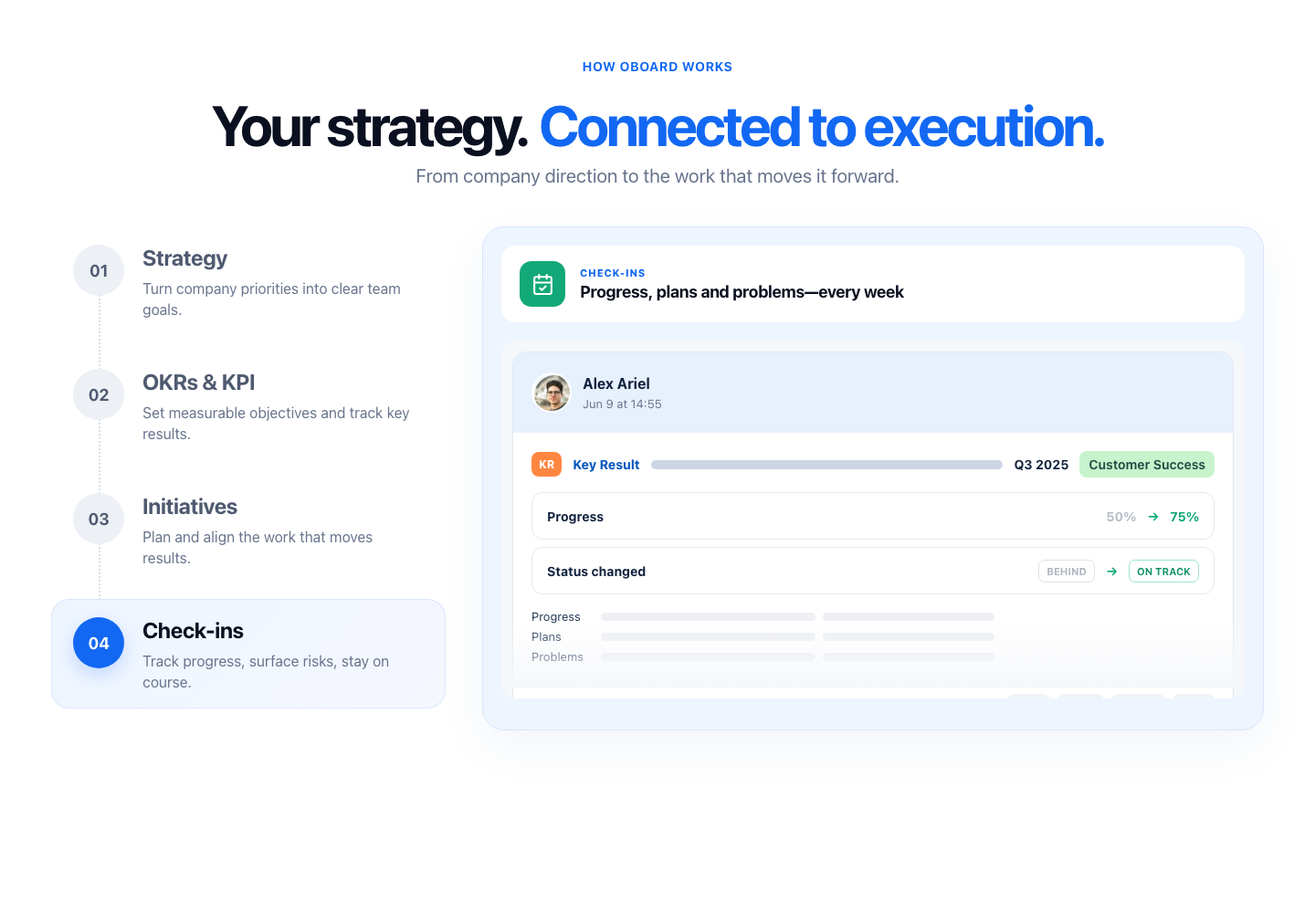
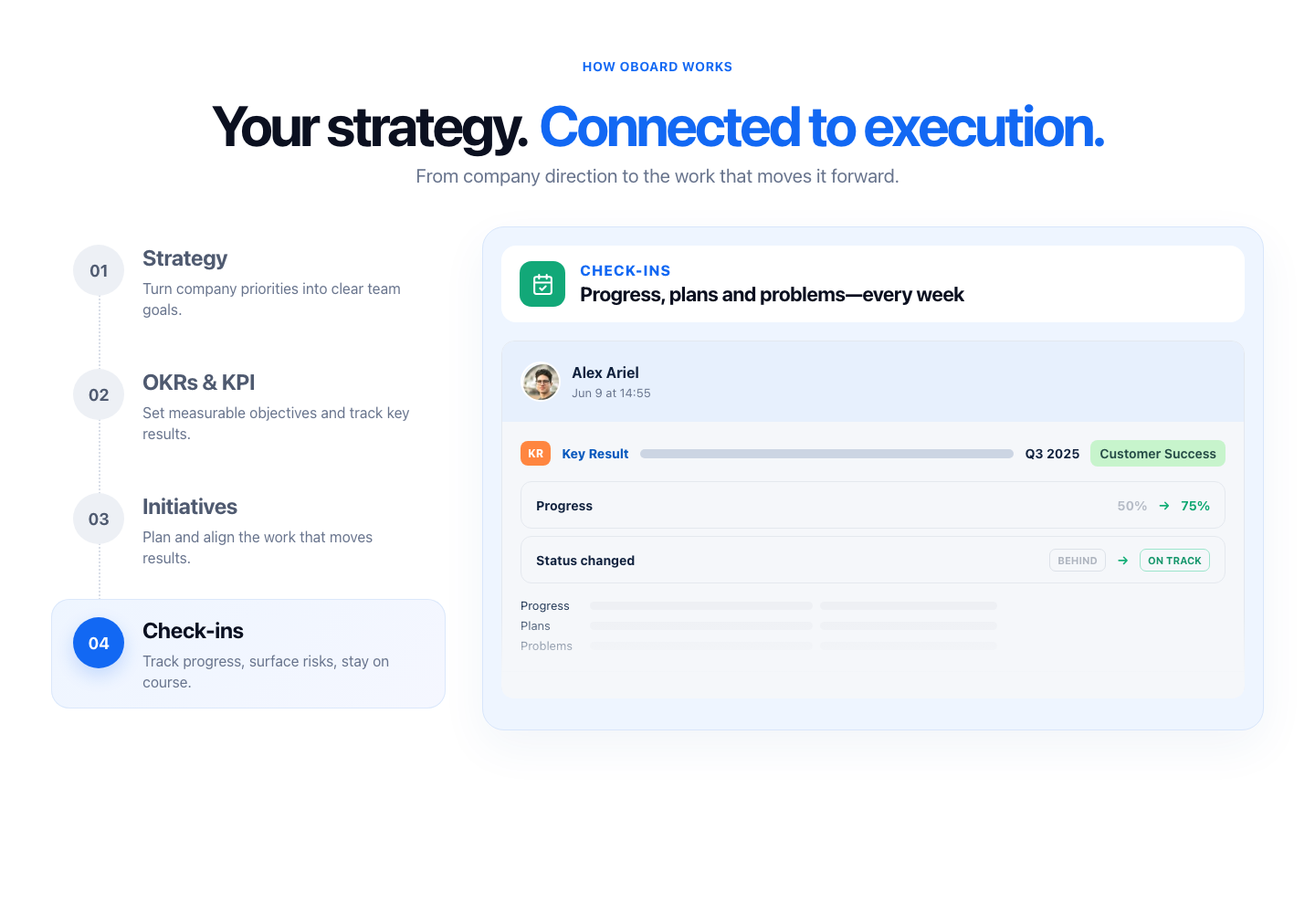
Add floating prototype navigation and latest OBoard updates

Changed region(s): [[0.375, 0.403, 0.9375, 0.744], [0.4375, 0.279, 0.75, 0.341]]

diff --git a/viktor-homepage-v2/platform-4-states.html b/viktor-homepage-v2/platform-4-states.html
@@ -31,19 +31,26 @@ h1{text-align:center;margin:24px 0 10px;font-size:clamp(42px,4.4vw,62px);line-he
 .state-icon.initiative{background:#a769f6}
 .state-icon.checkin{background:#12a878}
 .state-icon img,.state-icon.initiative img{filter:brightness(0) invert(1)}
-.initiative-composite{display:grid;grid-template-rows:132px minmax(0,1fr);gap:12px;overflow:hidden;border-radius:16px;background:#fff;padding:var(--section-gap)}
-.integration-flow{overflow:hidden;background:#fff}
-.integration-flow img{display:block;width:84%;height:auto;margin:0 auto}
-.objectives-frame{min-height:0;overflow:hidden;display:grid;place-items:start center;background:#fff}
-.objectives-card-shell{width:84%;height:100%;overflow:hidden;border:1px solid #dfe4ec;border-radius:16px;background:#fff}
+.initiative-composite{display:grid;grid-template-rows:auto minmax(0,1fr);gap:0;overflow:hidden;border-radius:16px;background:#fff;padding:var(--section-gap)}
+.integration-flow{position:relative;aspect-ratio:5.84/1;overflow:hidden;background:transparent}
+.integration-flow img{position:relative;z-index:1;display:block;width:84%;height:auto;margin:0 auto;mix-blend-mode:multiply}
+.flow-discs{position:absolute;z-index:0;inset:0;pointer-events:none}.flow-disc{position:absolute;top:20%;width:6.8%;aspect-ratio:1;border-radius:50%;background:#fff;transform:translateX(-50%)}.flow-disc:nth-child(1){left:40.6%}.flow-disc:nth-child(2){left:50%}.flow-disc:nth-child(3){left:59.4%}
+.flow-cleaner{position:absolute;z-index:2;left:0;right:0;bottom:0;height:20%;background:#eef5ff;pointer-events:none}
+.flow-tip{position:absolute;top:-2px;bottom:3px;width:14px;transform:translateX(-50%)}
+.flow-tip:before{content:"";position:absolute;left:6px;top:0;bottom:6px;border-left:2px solid #b8d3ff}
+.flow-tip:after{content:"";position:absolute;left:2px;bottom:3px;width:8px;height:8px;border-right:2px solid #b8d3ff;border-bottom:2px solid #b8d3ff;transform:rotate(45deg)}
+.flow-tip:nth-child(1){left:46.4%}.flow-tip:nth-child(2){left:50%}.flow-tip:nth-child(3){left:53.6%}
+.objectives-frame{position:relative;min-height:0;overflow:hidden;display:grid;place-items:start center;background:transparent}
+.objectives-frame:after{content:"";position:absolute;z-index:3;left:8%;right:8%;bottom:0;height:64px;pointer-events:none;background:linear-gradient(180deg,rgba(255,255,255,0),rgba(255,255,255,.82) 58%,#fff 88%)}
+.objectives-card-shell{width:84%;height:100%;overflow:hidden;border:0;border-radius:0;background:transparent}
 .objectives-frame .objectives-window{display:block;width:107.8%;max-width:none;height:auto;margin:-3.2% 0 0 -3.9%}
-.checkin-window{position:relative;height:390px;overflow:hidden;border-radius:16px;background:#f5f7fa;padding:12px}
-.checkin-window:after{content:"";position:absolute;z-index:2;left:12px;right:12px;bottom:12px;height:96px;pointer-events:none;background:linear-gradient(180deg,rgba(245,247,250,0) 0%,rgba(245,247,250,.76) 56%,#f5f7fa 82%)}
-.checkin-card{min-height:480px;overflow:hidden;border:1px solid #e3e8ef;border-radius:14px;background:#fff;color:#10213d}
+.checkin-window{position:relative;height:390px;overflow:hidden;border-radius:14px;background:transparent;padding:0}
+.checkin-window:after{content:"";position:absolute;z-index:2;left:0;right:0;bottom:0;height:96px;pointer-events:none;background:linear-gradient(180deg,rgba(245,247,250,0) 0%,rgba(245,247,250,.76) 56%,#f5f7fa 82%)}
+.checkin-card{min-height:480px;overflow:hidden;border:1px solid #e3e8ef;border-radius:14px;background:#f5f7fa;color:#10213d}
 .checkin-author{height:88px;display:flex;align-items:center;gap:12px;padding:16px 20px;background:#e7f0fd}
 .checkin-avatar{width:44px;height:44px;flex:none;border:2px solid #fff;border-radius:50%;background-image:url('platform-shots/checkin.webp');background-repeat:no-repeat;background-size:933px 561px;background-position:-54px -33px}
 .checkin-author strong{display:block;font-size:16px;line-height:1.2}.checkin-author time{display:block;margin-top:4px;color:#68748d;font-size:13px}
-.checkin-body{padding:20px;display:grid;gap:16px}
+.checkin-body{padding:20px;display:grid;gap:16px;background:#f5f7fa}
 .checkin-meta{display:grid;grid-template-columns:auto auto minmax(80px,1fr) auto auto;gap:12px;align-items:center;font-size:14px}
 .kr-chip{padding:6px 8px;border-radius:8px;background:#ff8640;color:#fff;font-size:12px;font-weight:800}.kr-label{color:#0758bd;font-weight:750}.checkin-placeholder{height:10px;border-radius:99px;background:#ccd5e3}.checkin-quarter{font-weight:700}.checkin-team{padding:6px 10px;border-radius:8px;background:#c7f4cc;color:#254b46;font-weight:650;white-space:nowrap}
 .change-stack{display:grid;gap:8px}.change-row{min-height:52px;border:1px solid #e4e8ee;border-radius:12px;padding:12px 16px;display:flex;align-items:center;justify-content:space-between;font-size:14px;font-weight:700}.change-value{display:flex;gap:12px;align-items:center}.old{color:#b5bbc6}.arrow{color:#13ae76}.new{color:#0aa66f}.status-old,.status-new{padding:5px 8px;border:1px solid #dde2e9;border-radius:7px;font-size:11px}.status-old{color:#aeb4bf}.status-new{border-color:#9ce5cc;color:#15966b}
@@ -57,7 +64,9 @@ h1{text-align:center;margin:24px 0 10px;font-size:clamp(42px,4.4vw,62px);line-he
 .strategy-panel{display:grid;place-items:center;min-height:0;overflow:hidden;border-radius:16px;background:#fff}
 .strategy-panel .state-visual{width:100%;border-radius:0}
 .scene[data-scene="okr"] .figma-stack>img{border-radius:0;clip-path:inset(1px)}
-.initiative-composite{background:#fff}
+.okr-card{overflow:visible;border:0;border-radius:0;background:transparent}
+.scene[data-scene="okr"] .okr-card>img{display:block;width:100%;height:auto;border-radius:0}
+.initiative-composite{background:transparent}
 .stage:has(.scene[data-scene="initiatives"].active):after{display:none}
 .stage{--section-gap:18px;--head-height:82px;--head-pad-x:18px;--head-pad-y:16px;--head-icon-gap:16px;padding:var(--section-gap)}
 .state-shell,.figma-stack,.scene[data-scene="checkins"] .state-shell{gap:var(--section-gap)}
@@ -71,12 +80,14 @@ h1{margin:24px 0 12px}
 .rail{grid-template-rows:repeat(4,120px);gap:16px}
 .rail:before{left:52px;top:48px;bottom:72px}
 .tab{height:120px;border-radius:20px;padding:20px 24px;gap:20px}
-.state-copy strong{margin-top:4px}
+.state-copy small{font-size:16px;line-height:1.2;letter-spacing:.06em}
+.state-copy strong{margin-top:4px;font-size:22px}
 .caption{margin:20px 8px 0}
 .stage{height:552px;--section-gap:20px;--head-height:84px;--head-pad-x:20px;--head-pad-y:16px;--head-icon-gap:16px}
 .scene[data-scene="strategy"] .state-shell{grid-template-rows:var(--head-height) minmax(0,1fr)}
 .checkin-window{height:392px}
 @media(max-width:980px){.page{padding:40px 20px}.story{grid-template-columns:280px minmax(0,1fr);gap:24px}.rail{grid-template-rows:repeat(4,100px);gap:16px}.rail:before{left:36px;top:36px;bottom:64px}.tab{height:100px;grid-template-columns:44px 1fr;padding:16px;gap:12px}.num{width:44px;height:44px}}
+.page-switcher{position:fixed;z-index:20;right:18px;top:50%;display:grid;gap:6px;transform:translateY(-50%);padding:6px;border:1px solid #dbe7f8;border-radius:12px;background:rgba(255,255,255,.84);box-shadow:0 8px 24px rgba(20,51,97,.10);backdrop-filter:blur(8px)}.page-switcher a{display:grid;place-items:center;width:26px;height:26px;border-radius:7px;color:#62708a;font-size:12px;font-weight:800;text-decoration:none}.page-switcher a:hover{background:#eaf2ff;color:#1268f3}.page-switcher a[aria-current="page"]{background:#1268f3;color:#fff}
 </style>
 </head>
 <body><main class="page">
@@ -101,14 +112,14 @@ h1{margin:24px 0 12px}
       </div><p class="caption"><b>Every team can trace its work back to the strategy it serves.</b></p>
     </div>
     <div class="scene shot-scene" data-scene="okr">
-      <div class="figma-state figma-stack"><div class="state-head"><span class="state-icon okr"><img src="figma-product/icons/okr.svg" alt=""></span><span class="state-copy"><small>OKRs &amp; KPI</small><strong>Outcomes and business metrics on one board</strong></span></div><img src="figma-product/objectives-open@2x.png" alt="Open Objectives table from Oboard Design System"><img src="figma-product/kpi-period-open@2x.png" alt="Open KPI period table from Oboard Design System"></div>
+      <div class="figma-state figma-stack"><div class="state-head"><span class="state-icon okr"><img src="figma-product/icons/okr.svg" alt=""></span><span class="state-copy"><small>OKRs &amp; KPI</small><strong>Outcomes and business metrics on one board</strong></span></div><div class="okr-card"><img src="figma-product/objectives-open@2x.png" alt="Open Objectives table from Oboard Design System"></div><div class="okr-card"><img src="figma-product/kpi-period-open@2x.png" alt="Open KPI period table from Oboard Design System"></div></div>
       <img class="product-shot" src="platform-shots/okr.webp" alt="Oboard OKR and KPI view from the supplied prototype">
       <div class="hero-card"><div class="ico">◎</div><div><div class="kicker">OKRs &amp; KPI</div><h2>Outcomes and business metrics on one board</h2></div></div><div class="connect"></div>
       <div class="grid2"><div class="card"><div class="section-title"><span>Q3 Objectives</span><span>55% grade</span></div><div class="row"><span>O1</span><span>Improve checkout reliability</span><span class="progress"><i style="width:55%"></i></span><span class="badge risk">Behind</span></div><div class="row"><span>KR1</span><span>Raise availability to 99.94%</span><span class="progress"><i style="width:72%"></i></span><span class="badge good">On track</span></div><div class="row"><span>KR2</span><span>Reduce incident MTTR by 75%</span><span class="progress"><i style="width:61%"></i></span><span class="badge good">On track</span></div></div><div class="card metric"><div class="kicker">Product KPI</div><div class="big">12,500</div><small>Monthly active users</small><div class="progress" style="margin-top:26px"><i style="width:68%"></i></div><small>+8.4% this month</small></div></div>
       <p class="caption">A <b>55% objective grade and a 12,500 MAU reading</b> get read together—not in separate tools.</p>
     </div>
     <div class="scene shot-scene" data-scene="initiatives">
-      <div class="figma-state state-shell"><div class="state-head"><span class="state-icon initiative"><img src="figma-product/icons/initiative.svg" alt=""></span><span class="state-copy"><small>Initiatives</small><strong>The work that moves the number</strong></span></div><div class="initiative-composite"><div class="integration-flow"><img src="platform-shots/initiative.webp" alt="Jira, API and Power BI feeding Oboard"></div><div class="objectives-frame"><div class="objectives-card-shell"><img class="objectives-window" src="figma-product/objectives-table@2x.png" alt="Figma Objectives table with a gray header and linked initiatives"></div></div></div></div>
+      <div class="figma-state state-shell"><div class="state-head"><span class="state-icon initiative"><img src="figma-product/icons/initiative.svg" alt=""></span><span class="state-copy"><small>Initiatives</small><strong>The work that moves the number</strong></span></div><div class="initiative-composite"><div class="integration-flow"><span class="flow-discs" aria-hidden="true"><i class="flow-disc"></i><i class="flow-disc"></i><i class="flow-disc"></i></span><img src="platform-shots/initiative.webp" alt="Jira, API and Power BI feeding Oboard"><span class="flow-cleaner" aria-hidden="true"><i class="flow-tip"></i><i class="flow-tip"></i><i class="flow-tip"></i></span></div><div class="objectives-frame"><div class="objectives-card-shell"><img class="objectives-window" src="figma-product/objectives-table@2x.png" alt="Figma Objectives table with a gray header and linked initiatives"></div></div></div></div>
       <img class="product-shot" src="platform-shots/initiative.webp" alt="Oboard initiatives view from the supplied prototype">
       <div class="hero-card"><div class="ico">⚡</div><div><div class="kicker">Initiatives</div><h2>Connect delivery work to the result it moves</h2></div></div><div class="connect"></div>
       <div class="card"><div class="section-title"><span>KR · Reduce incident MTTR by 75%</span><span>61%</span></div><div class="source-row"><span class="source">Jira</span><span class="source">Azure DevOps</span><span class="source">Power BI</span><span class="source">API</span></div><div class="row"><span>⚡</span><span>Standardize alerting across services</span><span class="weight">40% weight</span><span class="badge good">80%</span></div><div class="row"><span>⚡</span><span>Automate incident triage</span><span class="weight">35% weight</span><span class="badge good">64%</span></div><div class="row"><span>⚡</span><span>Run reliability game days</span><span class="weight">25% weight</span><span class="badge risk">20%</span></div></div>
@@ -124,4 +135,5 @@ h1{margin:24px 0 12px}
   </div>
 </section></main>
 <script>const tabs=[...document.querySelectorAll('.tab')],scenes=[...document.querySelectorAll('.scene')];const initial=new URLSearchParams(location.search).get('state');if(initial){tabs.forEach(x=>x.setAttribute('aria-selected',String(x.dataset.state===initial)));scenes.forEach(s=>s.classList.toggle('active',s.dataset.scene===initial));}tabs.forEach(t=>{t.addEventListener('mousedown',e=>e.preventDefault());t.addEventListener('click',()=>{const y=scrollY;tabs.forEach(x=>x.setAttribute('aria-selected',String(x===t)));scenes.forEach(s=>s.classList.toggle('active',s.dataset.scene===t.dataset.state));requestAnimationFrame(()=>scrollTo(0,y));});});</script>
+<nav class="page-switcher" aria-label="OBoard prototypes"><a href="platform-4-states.html" aria-current="page" aria-label="Platform">1</a><a href="agents-timeline.html" aria-label="AI agents timeline">2</a><a href="strategic-context.html" aria-label="Strategic context">3</a></nav>
 </body></html>

diff --git a/viktor-homepage-v2/strategic-context.html b/viktor-homepage-v2/strategic-context.html
@@ -2,55 +2,43 @@
 <html lang="en">
 <head>
 <meta charset="utf-8">
-<meta name="viewport" content="width=device-width, initial-scale=1">
+<meta name="viewport" content="width=device-width,initial-scale=1">
 <title>OBoard — Strategic context</title>
 <style>
-  :root{--ink:#090e20;--text:#142246;--muted:#65738f;--blue:#1268f3;--line:#dbe6f6;--soft:#eef5ff;--soft-2:#f7faff}
-  *{box-sizing:border-box} body{margin:0;background:#fff;color:var(--ink);font-family:Inter,-apple-system,BlinkMacSystemFont,"Segoe UI",sans-serif;-webkit-font-smoothing:antialiased}
-  .page{width:min(1440px,100%);margin:0 auto;padding:64px 48px 72px}.eyebrow{margin:0 0 22px;text-align:center;color:var(--blue);font-size:13px;font-weight:800;letter-spacing:.15em;text-transform:uppercase}.title{max-width:1080px;margin:0 auto 12px;text-align:center;font-size:clamp(46px,5.1vw,70px);letter-spacing:-.055em;line-height:1.01}.title span{color:var(--blue)}.lede{margin:0 auto 38px;text-align:center;color:var(--muted);font-size:22px;line-height:1.35}
-  .comparison{border:1px solid #cfe0fa;border-radius:22px;background:linear-gradient(135deg,#f7fbff,#edf5ff);padding:28px;box-shadow:0 18px 48px rgba(46,97,171,.07)}
-  .prompt{height:72px;display:flex;align-items:center;gap:16px;border:1px solid #d6e5fa;border-radius:15px;background:#fff;padding:0 18px;font-size:20px;font-weight:680;letter-spacing:-.02em}.spark{display:grid;place-items:center;width:42px;height:42px;border-radius:11px;background:#e8f1ff;color:var(--blue);font-size:28px;line-height:1}
-  .context{display:grid;grid-template-columns:repeat(3,1fr);margin:16px 0;background:#fff;border-radius:14px;min-height:64px;align-items:center}.signal{min-width:0;display:flex;justify-content:center;align-items:center;gap:11px;padding:0 22px;color:#233d70;font-size:17px;font-weight:620;text-align:center}.signal+.signal{border-left:1px solid #dce6f5}.signal b{color:var(--blue);font-size:24px;line-height:1}.signal span{white-space:nowrap}
-  .lists{display:grid;grid-template-columns:1fr 1fr;overflow:hidden;border-radius:16px;background:#fff}.list{padding:22px 20px 18px;min-width:0}.list+ .list{border-left:1px solid #d6e4f7}.list h2{margin:0;color:#657596;font-size:14px;font-weight:800;letter-spacing:.075em;text-transform:uppercase}.list.with h2{color:var(--blue)}.rule{margin:5px 0 16px;color:var(--muted);font-size:16px}.head,.row{display:grid;grid-template-columns:54px minmax(0,1fr) 126px;align-items:center;column-gap:10px}.head{min-height:31px;color:#6b7b99;font-size:13px;font-weight:700}.head span:last-child{text-align:right}.row{min-height:70px;border-top:1px solid #e3ebf7;font-size:17px}.row.key{background:#f1f7ff;border-radius:11px;border-top:0;margin:0 -6px;padding:0 6px}.rank{font-size:17px;font-weight:800;color:#344a77}.row.key .rank{color:var(--blue)}.item{min-width:0;font-weight:650;letter-spacing:-.02em;white-space:nowrap;overflow:hidden;text-overflow:ellipsis}.meta{color:#697b9e;font-size:14px;white-space:nowrap;text-align:right}.moved{display:inline-block;margin-left:8px;border-radius:999px;background:#deebff;padding:3px 7px;color:var(--blue);font-size:12px;font-weight:800;letter-spacing:0;vertical-align:middle}.quiet{color:#6d7c99}.footer{margin:26px 0 0;text-align:center;color:#61749b;font-size:17px}.footer b{color:#193c83}
-  @media(max-width:800px){.page{padding:42px 18px}.title{font-size:42px}.lede{font-size:18px}.comparison{padding:16px}.context{grid-template-columns:1fr}.signal{justify-content:flex-start;min-height:52px;border-left:0!important}.signal+.signal{border-top:1px solid #dce6f5}.lists{grid-template-columns:1fr}.list+.list{border-top:1px solid #d6e4f7;border-left:0}.signal span{white-space:normal}.meta{font-size:12px}.head,.row{grid-template-columns:42px minmax(0,1fr) 94px}}
+:root{--ink:#09112a;--muted:#68789a;--blue:#1268f3;--line:#cfe0f8;--soft:#f6faff;--u:8px}
+*{box-sizing:border-box}body{margin:0;background:#fff;color:var(--ink);font-family:Inter,-apple-system,BlinkMacSystemFont,"Segoe UI",sans-serif;-webkit-font-smoothing:antialiased}
+.page{width:min(1392px,100%);margin:auto;padding:64px 56px 72px}.title{margin:0;text-align:center;font-size:clamp(48px,5vw,68px);line-height:1.02;letter-spacing:-.055em}.title span{color:var(--blue)}.lede{margin:16px 0 40px;text-align:center;color:var(--muted);font-size:23px;line-height:1.35;letter-spacing:-.02em}
+.prompt{height:80px;display:flex;align-items:center;gap:16px;padding:16px 24px;border:1px solid var(--line);border-radius:16px;font-size:22px;font-weight:650;letter-spacing:-.025em}.spark{display:grid;place-items:center;width:48px;height:48px;flex:none;border-radius:12px;background:#e8f2ff;color:var(--blue);font-size:30px}
+.stage{position:relative;margin-top:32px;min-height:488px;padding:32px;border:1px solid var(--line);border-radius:24px;background:#fff;overflow:hidden}.labels{position:relative;z-index:2;display:grid;grid-template-columns:46% 1fr;margin:0 0 24px;color:var(--muted);font-size:14px;line-height:1.2;font-weight:800;letter-spacing:.12em;text-transform:uppercase}.labels span:last-child{padding-left:24px}
+.layout{position:relative;z-index:2;display:grid;grid-template-columns:34% 18% 48%;align-items:start}.signals{display:grid;gap:16px}.signal{min-height:88px;display:flex;align-items:center;gap:16px;padding:16px;border-radius:16px;background:var(--soft);font-size:20px;font-weight:620;line-height:1.25;letter-spacing:-.025em}.iconbox{width:48px;height:48px;display:grid;place-items:center;flex:none;border-radius:12px;background:#e7f1ff;color:var(--blue)}.iconbox img,.iconbox svg{width:26px;height:26px}.iconbox img{filter:invert(33%) sepia(88%) saturate(2896%) hue-rotate(208deg) brightness(98%) contrast(94%)}
+.flow{position:absolute;z-index:1;left:calc(34% - 5px);top:80px;width:20%;height:280px;pointer-events:none;overflow:visible}.flow path{fill:none;stroke:#b7d4ff;stroke-width:1.65;stroke-linecap:round}.flow circle{fill:var(--blue)}
+.decision{grid-column:3;min-width:0}.choice{min-height:168px;display:flex;align-items:center;gap:24px;padding:16px 24px 16px 16px;border-radius:16px;background:linear-gradient(110deg,#f0f7ff,#f8fbff)}.rank{width:112px;height:112px;display:grid;place-items:center;flex:none;border-radius:12px;background:var(--blue);color:#fff;font-size:44px;font-weight:800;letter-spacing:-.055em;box-shadow:0 8px 20px rgba(18,104,243,.18)}.choice h2{margin:0 0 8px;font-size:clamp(26px,2.4vw,34px);line-height:1.05;letter-spacing:-.045em}.choice p{margin:0;max-width:540px;color:#6d7fa3;font-size:20px;line-height:1.35}.provenance{margin-top:32px}.provenance h3{margin:0 0 12px;color:var(--muted);font-size:14px;line-height:1.2;font-weight:800;letter-spacing:.12em;text-transform:uppercase}.provenance p{margin:4px 0;color:var(--muted);font-size:20px;line-height:1.35;letter-spacing:-.02em}.provenance b{color:var(--blue)}.principle{margin:40px 0 0;text-align:center;color:var(--muted);font-size:19px}.principle b{color:#294783}
+@media(max-width:850px){.page{padding:40px 20px}.lede{font-size:18px}.stage{padding:24px 16px}.labels{grid-template-columns:1fr}.labels span:last-child{display:none}.layout{grid-template-columns:1fr}.flow{display:none}.decision{grid-column:auto;margin-top:24px}.signal{min-height:72px;font-size:16px}.choice{gap:16px}.rank{width:80px;height:80px;font-size:32px}.choice h2{font-size:23px}.choice p,.provenance p{font-size:16px}}
+.page-switcher{position:fixed;z-index:20;right:18px;top:50%;display:grid;gap:6px;transform:translateY(-50%);padding:6px;border:1px solid #dbe7f8;border-radius:12px;background:rgba(255,255,255,.84);box-shadow:0 8px 24px rgba(20,51,97,.10);backdrop-filter:blur(8px)}.page-switcher a{display:grid;place-items:center;width:26px;height:26px;border-radius:7px;color:#62708a;font-size:12px;font-weight:800;text-decoration:none}.page-switcher a:hover{background:#eaf2ff;color:#1268f3}.page-switcher a[aria-current="page"]{background:#1268f3;color:#fff}
 </style>
 </head>
 <body>
-  <main class="page">
-    <p class="eyebrow">Strategic context layer</p>
-    <h1 class="title">The same backlog. <span>A better answer.</span></h1>
-    <p class="lede">One prompt. The priority changes when strategy is clear.</p>
-
-    <section class="comparison" aria-label="How strategic context changes backlog priority">
-      <div class="prompt"><span class="spark" aria-hidden="true">✦</span>Prioritize the backlog for next quarter.</div>
-      <div class="context" aria-label="Strategic context the AI uses">
-        <div class="signal"><b aria-hidden="true">◎</b><span>Enterprise expansion</span></div>
-        <div class="signal"><b aria-hidden="true">⚑</b><span>KR: 500+ seat customers</span></div>
-        <div class="signal"><b aria-hidden="true">▥</b><span>4 of 6 trials blocked by security review</span></div>
+<main class="page">
+  <h1 class="title">A decision you can <span>explain.</span></h1>
+  <p class="lede">Strategic context changes the priority — and shows why.</p>
+  <div class="prompt"><span class="spark" aria-hidden="true">✦</span><span>Prioritize next quarter’s backlog.</span></div>
+  <section class="stage" aria-label="Strategic context informed priority decision">
+    <div class="labels"><span>What the agent saw</span><span>The decision</span></div>
+    <svg class="flow" viewBox="0 0 300 280" preserveAspectRatio="none" aria-hidden="true"><path d="M0 42 C104 42,116 140,269 140"/><path d="M0 140 C118 140,137 140,269 140"/><path d="M0 238 C104 238,116 140,269 140"/><circle cx="273" cy="140" r="5"/></svg>
+    <div class="layout">
+      <div class="signals">
+        <div class="signal"><span class="iconbox"><img src="../../published-prototype/objectives-assets/3320-25894-imgTarget.svg" alt=""></span><span>Enterprise expansion</span></div>
+        <div class="signal"><span class="iconbox"><img src="figma-product/icons/strategy.svg" alt=""></span><span>500+ seat customer goal</span></div>
+        <div class="signal"><span class="iconbox"><svg viewBox="0 0 24 24" fill="none" aria-hidden="true"><path d="M12 3.5c-2.7 0-4.7.02-6.1.14-1.35.1-1.93.32-2.29.58-.3.22-.55.58-.69 1.48C2.77 6.64 2.8 7.91 2.8 9.77c0 4.08 2.29 6.77 4.74 8.45A16 16 0 0 0 12 20.5a16 16 0 0 0 4.46-2.28c2.45-1.68 4.74-4.37 4.74-8.45 0-1.86.03-3.13-.12-4.07-.14-.9-.39-1.26-.69-1.48-.36-.26-.94-.48-2.29-.58-1.4-.12-3.4-.14-6.1-.14Z" stroke="currentColor" stroke-width="2" stroke-linejoin="round"/><path d="m8.4 11.8 2.15 2.1 4.35-4.35" stroke="currentColor" stroke-width="2" stroke-linecap="round" stroke-linejoin="round"/></svg></span><span>4 of 6 trials blocked by security review</span></div>
       </div>
-
-      <div class="lists">
-        <section class="list" aria-labelledby="without">
-          <h2 id="without">Without AI context</h2>
-          <p class="rule">Votes + delivery effort</p>
-          <div class="head"><span>#</span><span>Initiative</span><span>Votes · effort</span></div>
-          <div class="row key"><span class="rank">#1</span><span class="item">Bulk CSV export</span><span class="meta">22 · 2 days</span></div>
-          <div class="row"><span class="rank">#2</span><span class="item">Advanced admin controls</span><span class="meta">18 · 5 days</span></div>
-          <div class="row"><span class="rank">#3</span><span class="item">API rate limits</span><span class="meta">16 · 3 days</span></div>
-          <div class="row"><span class="rank">#9</span><span class="item">SCIM provisioning + audit logs</span><span class="meta">9 · 7 days</span></div>
-        </section>
-        <section class="list with" aria-labelledby="with">
-          <h2 id="with">With AI strategic context</h2>
-          <p class="rule">Strategy + customer signal</p>
-          <div class="head"><span>#</span><span>Initiative</span><span>Votes · effort</span></div>
-          <div class="row key"><span class="rank">#1</span><span class="item">SCIM provisioning + audit logs <i class="moved">from #9</i></span><span class="meta">9 · 7 days</span></div>
-          <div class="row"><span class="rank">#2</span><span class="item">SSO (SAML)</span><span class="meta">14 · 6 days</span></div>
-          <div class="row"><span class="rank">#3</span><span class="item">Advanced admin controls</span><span class="meta">12 · 5 days</span></div>
-          <div class="row"><span class="rank quiet">#9</span><span class="item quiet">Bulk CSV export <i class="moved">from #1</i></span><span class="meta">22 · 2 days</span></div>
-        </section>
+      <div class="decision">
+        <div class="choice"><div class="rank">#1</div><div><h2>SCIM provisioning + audit logs</h2><p>Unblocks the security review holding back enterprise trials.</p></div></div>
+        <div class="provenance"><h3>Provenance</h3><p>Before context: <b>#9</b></p><p>Without context, Bulk CSV export was <b>#1</b>.</p></div>
       </div>
-    </section>
-    <p class="footer"><b>Enterprise readiness</b> over feature breadth.</p>
-  </main>
+    </div>
+  </section>
+  <p class="principle"><b>Enterprise readiness</b> over feature breadth.</p>
+ </main>
+<nav class="page-switcher" aria-label="OBoard prototypes"><a href="platform-4-states.html" aria-label="Platform">1</a><a href="agents-timeline.html" aria-label="AI agents timeline">2</a><a href="strategic-context.html" aria-current="page" aria-label="Strategic context">3</a></nav>
 </body>
 </html>

diff --git a/viktor-homepage-v2/agents-timeline.html b/viktor-homepage-v2/agents-timeline.html
@@ -17,8 +17,8 @@
 @media(max-width:1100px){.page{padding:38px 20px}.agents{grid-template-columns:repeat(3,1fr)}.agent{height:170px}.phase-track{display:none}.connector{display:none}.work{height:auto;margin-top:22px;padding:26px}.work-head{height:auto;min-height:94px}.work-grid{height:auto;margin-top:16px;grid-template-columns:minmax(0,1fr) 280px}.cycle{--active:0!important}}
 @media(max-width:720px){.title{font-size:40px}.lede{font-size:17px}.agents{grid-template-columns:1fr 1fr}.agent{height:178px}.work{height:auto;padding:20px}.work-head{height:auto;min-height:0}.work-meta{display:none}.work-grid{height:auto;margin-top:18px;grid-template-columns:1fr}.result-action{align-items:flex-start;flex-direction:column}.result-action b{white-space:normal}.summary{min-height:0}.footer{gap:20px;align-items:flex-start}.footer a{text-align:right}}
 /* Desktop approval corrections: keep the summary subordinate and balanced. */
-.stat{padding-right:8px}
-.stat+.stat{padding-left:8px}
+.stat{padding-right:16px}
+.stat+.stat{padding-left:16px}
 .stat b{font-size:22px;line-height:1.2}
 /* Keep the card-to-detail handoff visibly deliberate rather than stubby. */
 .connector{height:64px;margin-top:0}
@@ -36,13 +36,20 @@
 .work{height:350px;padding:24px}
 .work-grid{height:auto;min-height:170px;gap:16px}
 .result,.summary{padding:20px}
-.stats{margin-top:16px}
+.result h4{margin:16px 0 8px}
+.stats{margin-top:auto}
+.agent:hover{transform:none}
+.agent{height:172px;padding:20px}
+.agent-icon{margin-bottom:16px}
+.agent h2{margin-bottom:8px}
 .result{padding-bottom:20px}
-.result-action{display:flex;margin-top:20px;padding:10px 16px;gap:24px}
+.result-action{display:flex;margin-top:24px;padding:10px 16px;justify-content:space-between;gap:24px}
+.result-action b{margin-left:auto;text-align:right}
 .work{height:auto;min-height:306px}
 /* The connector marker is the seam: half above, half inside the work shell. */
-.connector:before{top:-6px;bottom:0}
+.connector:before{top:0;bottom:0}
 .connector:after{width:18px;height:18px;border:2px solid #fff;box-shadow:0 0 0 4px #e7f0ff;bottom:-11px}
+.page-switcher{position:fixed;z-index:20;right:18px;top:50%;display:grid;gap:6px;transform:translateY(-50%);padding:6px;border:1px solid #dbe7f8;border-radius:12px;background:rgba(255,255,255,.84);box-shadow:0 8px 24px rgba(20,51,97,.10);backdrop-filter:blur(8px)}.page-switcher a{display:grid;place-items:center;width:26px;height:26px;border-radius:7px;color:#62708a;font-size:12px;font-weight:800;text-decoration:none}.page-switcher a:hover{background:#eaf2ff;color:#1268f3}.page-switcher a[aria-current="page"]{background:#1268f3;color:#fff}
 </style>
 </head>
 <body>
@@ -79,7 +86,8 @@
     </section>
   </section>
   <footer class="footer"><span>Works within your permissions. Every draft stays under human control.</span><a href="#">Explore all agents&nbsp; →</a></footer>
-</main>
+ </main>
+<nav class="page-switcher" aria-label="OBoard prototypes"><a href="platform-4-states.html" aria-label="Platform">1</a><a href="agents-timeline.html" aria-current="page" aria-label="AI agents timeline">2</a><a href="strategic-context.html" aria-label="Strategic context">3</a></nav>
 <script>
 const iconBase='https://cdn.jsdelivr.net/npm/@tabler/icons@3.34.1/icons/outline/';
 const agents=[
